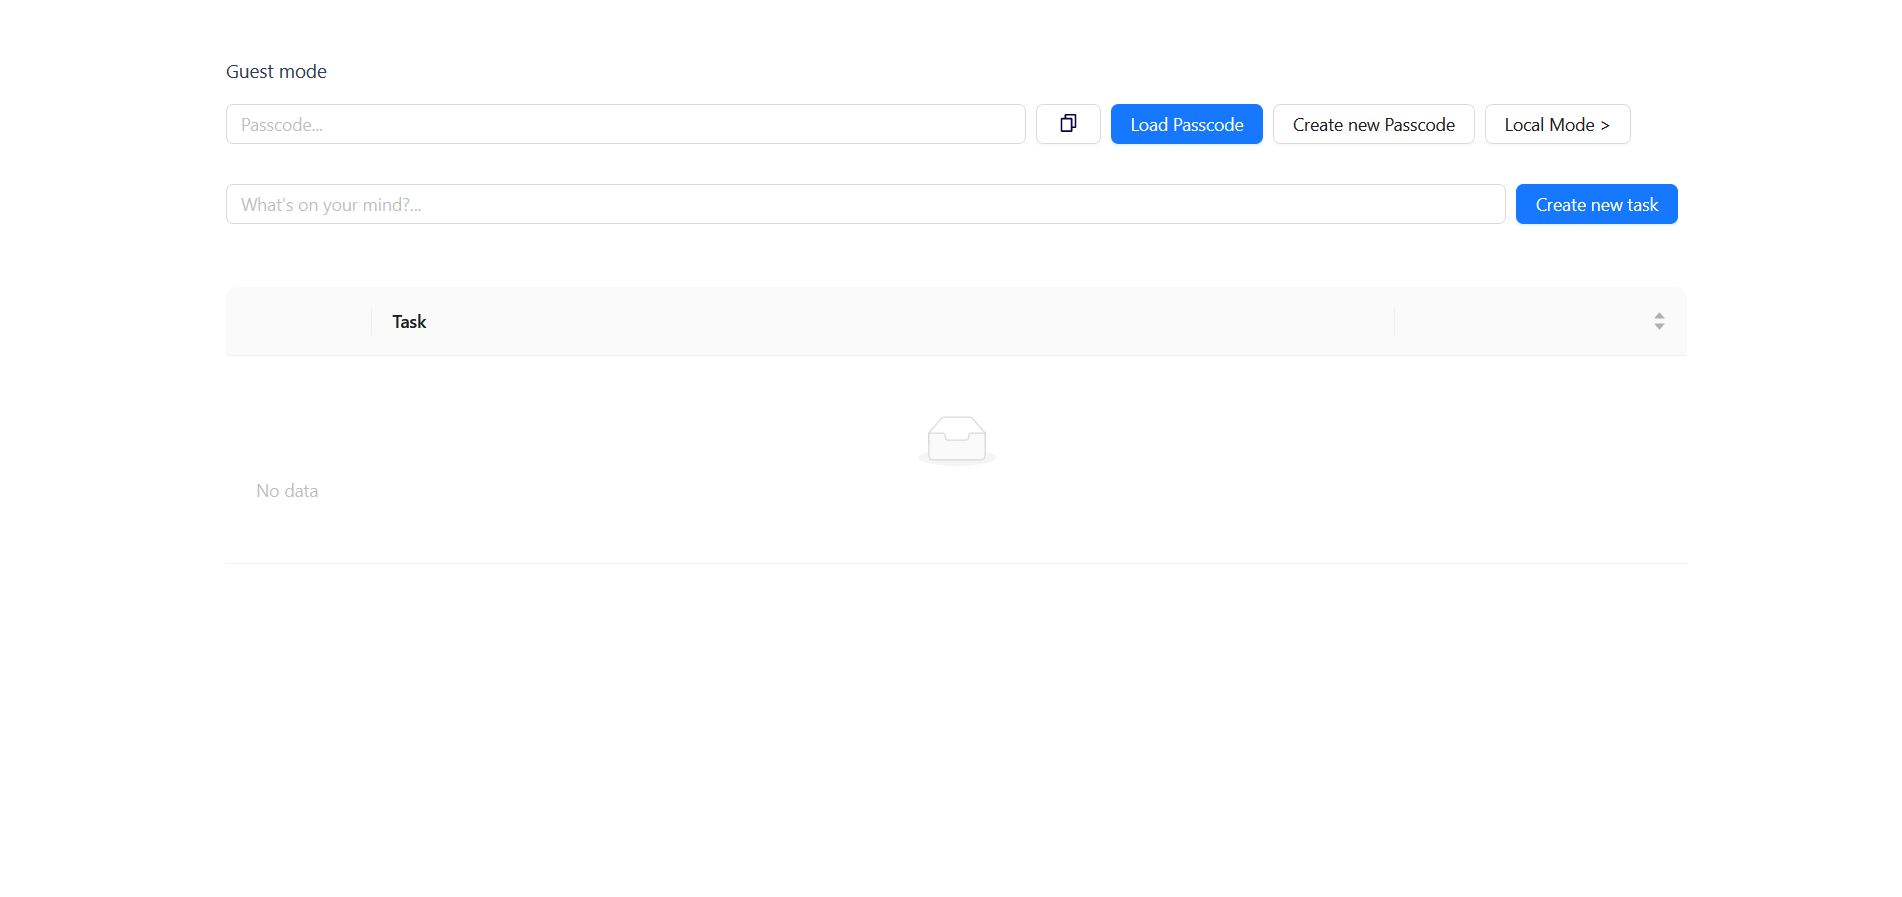
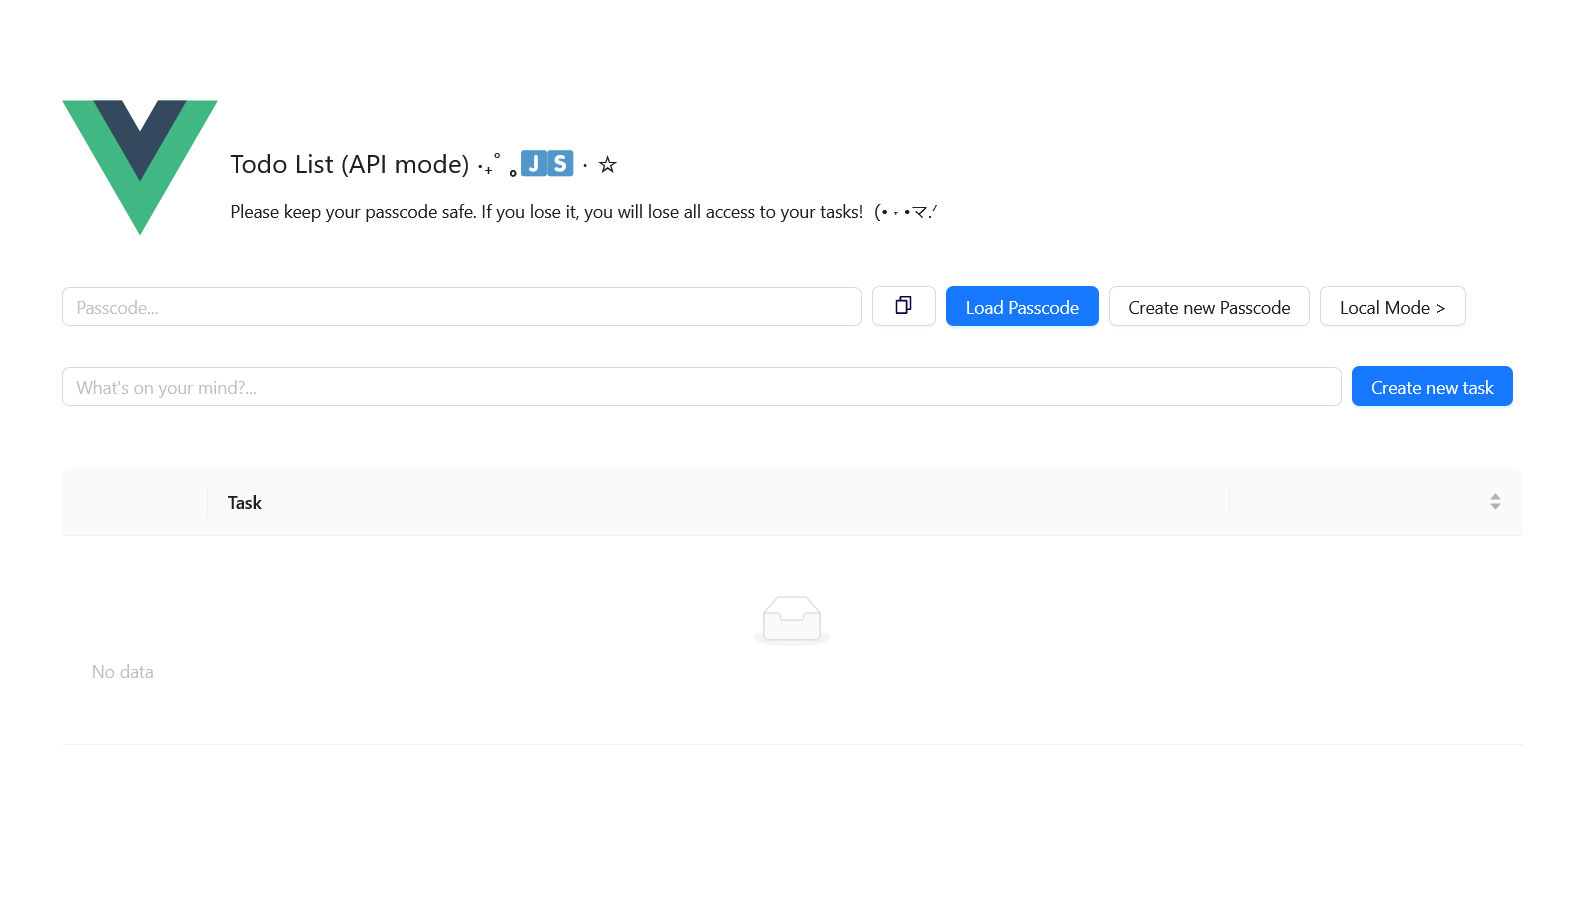
Update README.md

diff --git a/README.md b/README.md
@@ -2,7 +2,8 @@
 A small To-do list project in Vue.js(+vite)
 ![guestPage](/readmeImage/guestmode.png)
 ![guestPage](/readmeImage/oldv1.png)
-- ### [Play here! (v1.0.0)](https://beam7894123.github.io/to-do-list-vue/)
+- ### [Play here! (v2.0.0)](https://beam7894123.github.io/to-do-list-vue/)
+- [(v1.0.0)](https://beam7894123.github.io/to-do-list-vue/#/old)
 
 ## Features
 - Modern UI with Ant Design Vue
@@ -21,16 +22,6 @@ A small To-do list project in Vue.js(+vite)
 #### For v1.0.0
 1. `npm install`
 2. `npm run dev`
-
-### Compiles and hot-reloads for development
-```
-npm run dev
-```
-
-### Compiles and minifies for production
-```
-npm run build
-```
 
 [//]: # (### Customize configuration)
 
